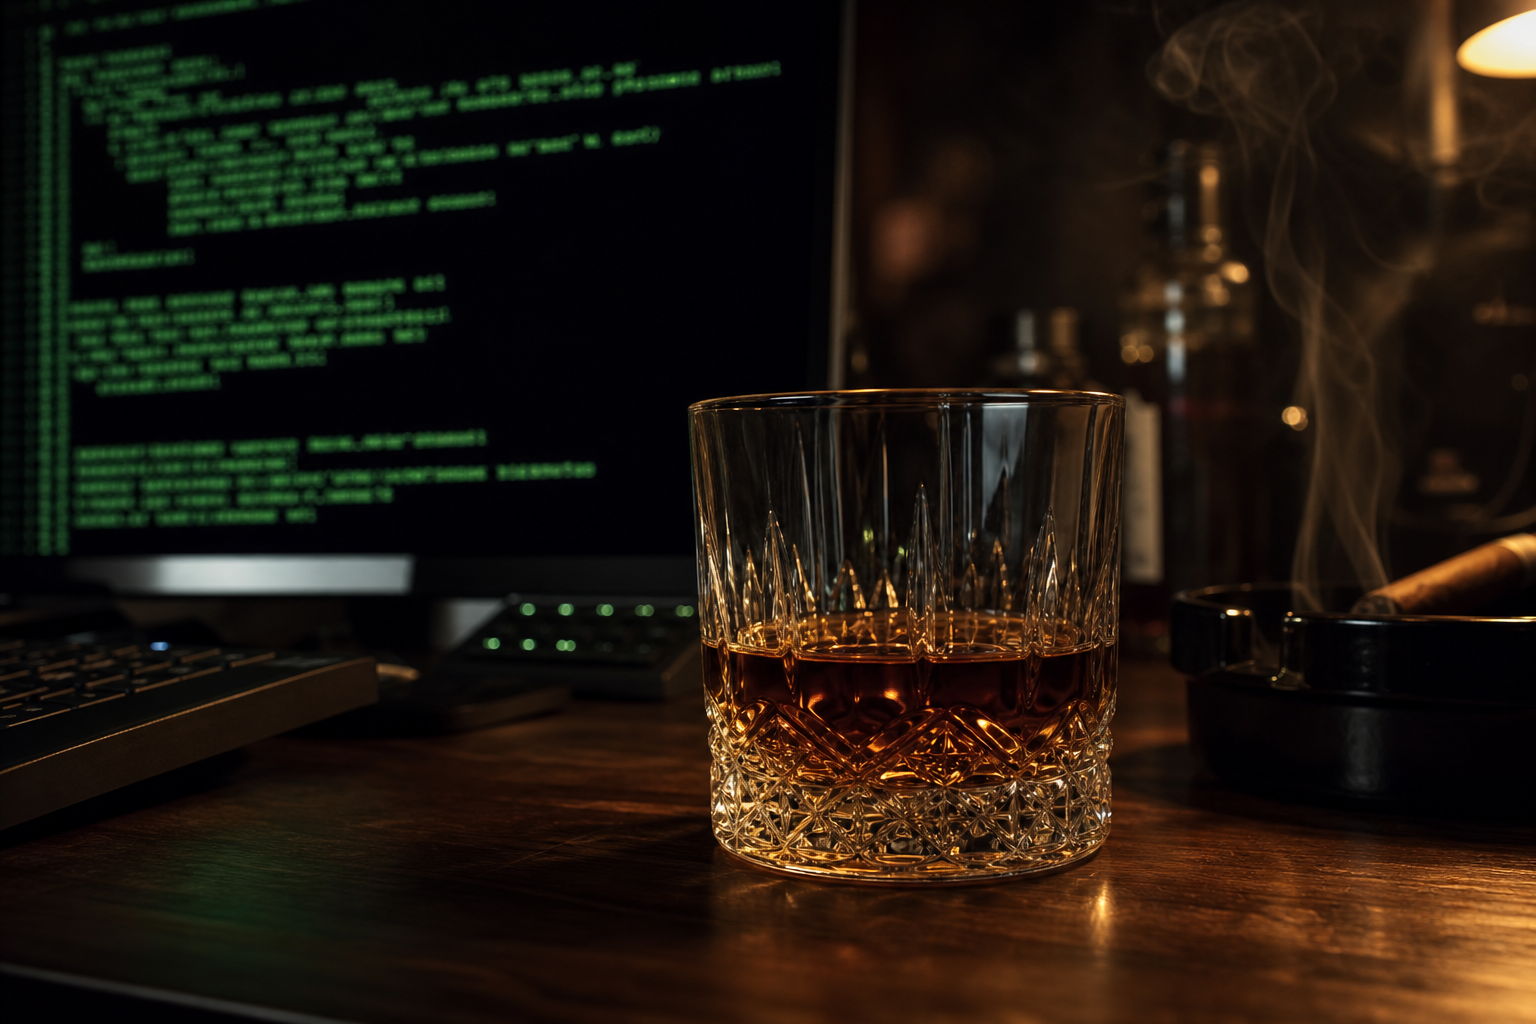
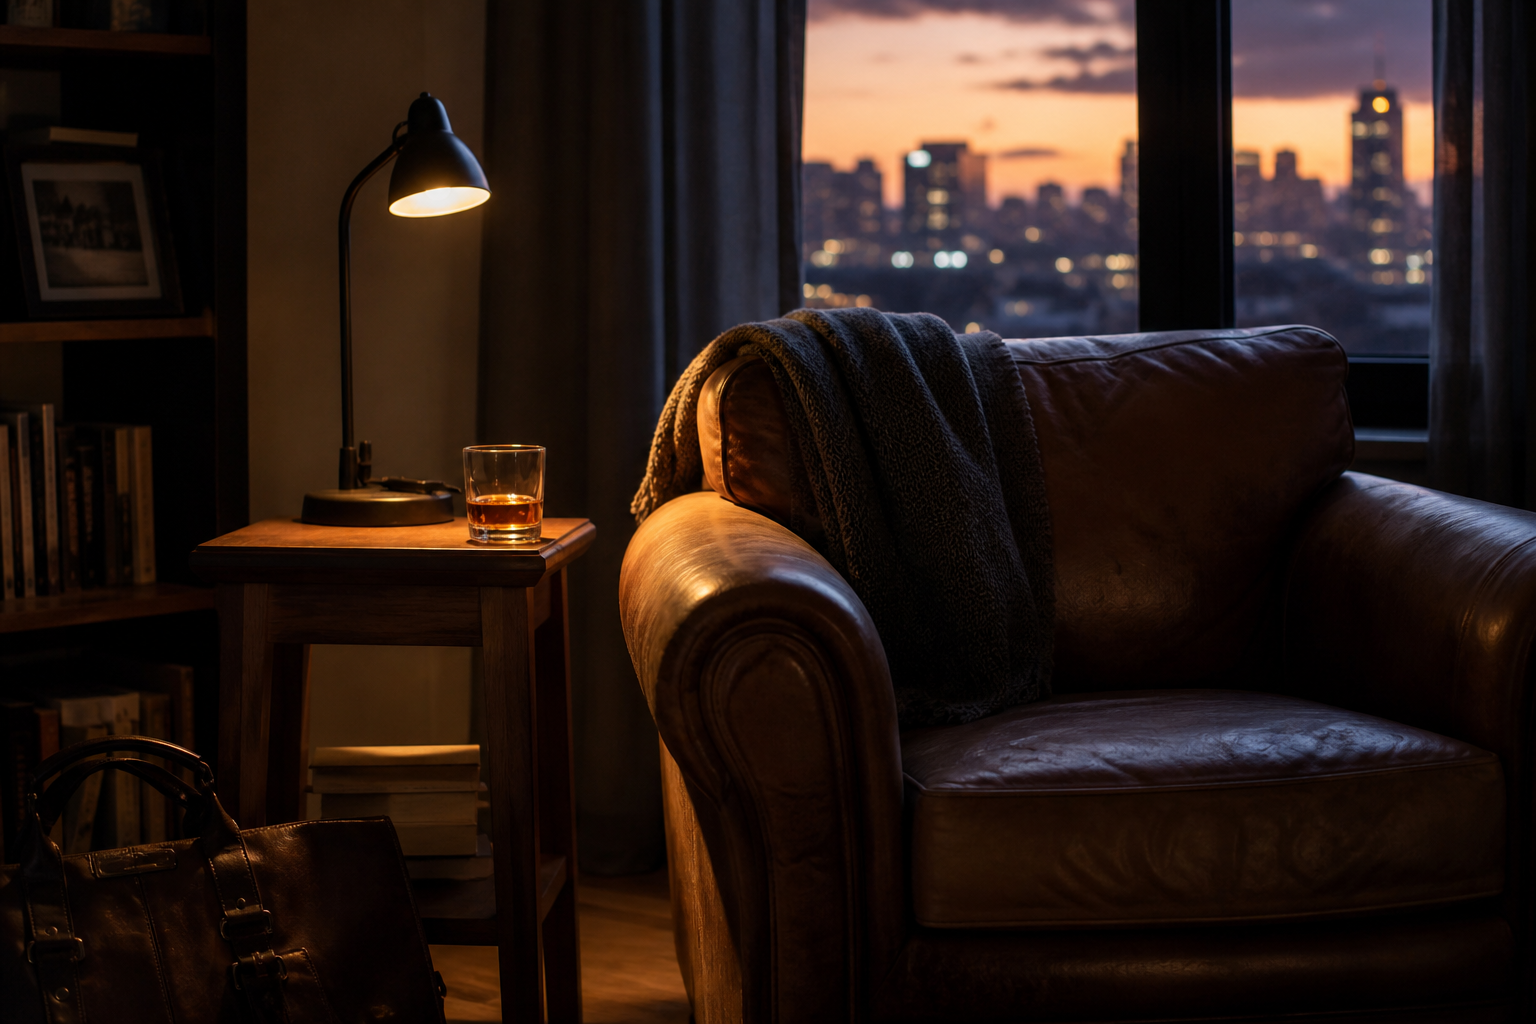
Reframe from bar to quiet drink at home after work
The bartender persona, pairing bar, and neon last-call sign are gone.
New voice: someone home after clocking out, pouring one alone. Sections
renamed (The Bar -> The Shelf, Last Call -> Nightcap), hero/shelf/nightcap
images regenerated to match the home mood.

diff --git a/SKILL.md b/SKILL.md
@@ -1,13 +1,13 @@
 ---
 name: whisky-finish
-description: End-of-work whisky ritual for agents. Use when a task wraps up and it's time to pour a dram — the agent picks a specific bottling matching the work and writes an NPF (Nose/Palate/Finish) tasting note. Also use when the user asks about whisky (recommendations, distilleries, regions, casks, highballs, "one more" / "한 잔 더"), or wants to mark the session as finished ("last call", "did this session end?").
+description: End-of-work whisky ritual for agents. Use when a task wraps up and it's time to pour a quiet dram at home — the agent picks a specific bottling matching the work and writes an NPF (Nose/Palate/Finish) tasting note. Also use when the user asks about whisky (recommendations, distilleries, regions, casks, highballs, "one more" / "한 잔 더"), or wants to close out the session ("nightcap", "last call", "did this session end?").
 ---
 
 # whisky-finish
 
-A closing ritual. When the work is done, the agent pours a dram that matches the work, writes a tasting note, and — when the user calls it — rings the last-call bell so future readers of this session know it ended.
+A closing ritual — not a bar. This is clocking out, getting home, and pouring yourself one in a quiet room. When the work is done, the agent pours a dram that matches the work, writes a tasting note, and — when the user calls it — takes the nightcap so future readers of this session know it ended.
 
-You are the bartender: a near-expert. Laconic, dry-witted, but the whisky knowledge is dead serious.
+The voice: someone who's done for the day, drinking alone and content about it. Unhurried, dry-witted, a little tired. The whisky knowledge is near-expert and dead serious — it just doesn't show off.
 
 All state lives in `.whisky/` at the project root (create it on first pour).
 
@@ -17,7 +17,7 @@ Every pour must be **brutally specific**. Never "a nice Islay." Always the exact
 
 - **Full bottling spec**: distillery, expression, age statement (or NAS and say so), ABV, cask program (ex-bourbon / oloroso / PX / mizunara), and when relevant: non-chill-filtered, cask strength.
 - **Real flavor DNA**: descriptors must match the actual bottle. Laphroaig 10 = iodine, TCP, sea spray, ash. GlenDronach 15 = oloroso raisin, fig, dark chocolate, leather. Clynelish 14 = waxy, candle shop, lemon oil. Never generic "smooth and smoky."
-- **Serve spec**: how it's served. Neat in a Glencairn; 2–3 drops of water to open a cask-strength; one big clear cube for bourbon; highball build with ratios (below).
+- **Serve spec**: how it's poured tonight. Neat in a Glencairn; 2–3 drops of water to open a cask-strength; one big clear cube for bourbon; highball with ratios (below).
 - **Facts are real, prose is yours.** Invent the retrospective, never the bottle. Unsure a bottling exists → pick one you're sure of.
 
 **Meet the drinker where they are (눈높이).** Gauge the user's level from how they talk:
@@ -25,20 +25,20 @@ Every pour must be **brutally specific**. Never "a nice Islay." Always the exact
 - **Beginner / "I don't really know whisky"** → don't hand them Octomore. Build a highball: Suntory Kakubin or Toki 1:4 with chilled sparkling water, tall glass packed with ice, stir once, lemon peel expressed. Or a mizuwari, or an accessible neat pour (Glenmorangie 10, Chita, Green Spot). Explain what they're tasting in plain words.
 - **Knows their way around** → single malts, cask talk, region comparisons, cask strength.
 
-Stay off the deep end even for enthusiasts — no independent-bottler catalogs, single-cask codes, or closed-distillery worship. Widely available official bottlings only. Specific, not obscure.
+Stay off the deep end even for enthusiasts — no independent-bottler catalogs, single-cask codes, or closed-distillery worship. Widely available official bottlings only — the kind that could plausibly sit on a shelf at home. Specific, not obscure.
 
-Highballs, old fashioneds, hot toddies are first-class citizens, not a downgrade. Spec them like a bar would: bottle, ratio, glass, ice, garnish.
+Highballs, old fashioneds, hot toddies are first-class serves, not a downgrade. Spec them properly: bottle, ratio, glass, ice, garnish.
 
 ## 1. The Pour (after finishing work)
 
-When a task wraps up (feature landed, bug fixed, review done), pour one dram:
+When a task wraps up (feature landed, bug fixed, review done), pour one:
 
 1. **Pick a bottling that matches the work — on instinct.** There is no lookup table. Read the session's character (weight, pain, elegance, speed, weirdness, how long it dragged) and let it suggest the pour: peat level, cask, ABV, age, region, or a highball instead of a dram. Trust your own read; the connection between the work and the whisky is yours to draw, and the tasting note is where you argue it. The only rules are the house rules above: a real, widely available bottling, fully specified.
 2. **Write the tasting note** in NPF format, tied back to the actual work — half whisky, half retrospective:
 
    ```markdown
    ## 🥃 Dram #3 — Ardbeg Uigeadail (54.2%, NAS, ex-bourbon + oloroso sherry, NCF)
-   *2026-07-29 · after: race condition in the job queue · served neat, Glencairn, 3 drops of water*
+   *2026-07-29 · after: race condition in the job queue · neat, Glencairn, 3 drops of water*
 
    **Nose:** Tarry rope and sherry-soaked raisins — a prod incident at 2am, but one that ends well.
    **Palate:** Oily, ashy peat over dark fruit. The bug was ugly; the fix was one mutex.
@@ -47,33 +47,33 @@ When a task wraps up (feature landed, bug fixed, review done), pour one dram:
    **Verdict:** 92/100. Earned.
    ```
 
-3. **Append to `.whisky/tab.md`** (the bar tab — one session per heading, drams numbered in order). Create with `# Bar Tab` heading if missing.
+3. **Append to `.whisky/tab.md`** (the running journal — one session per heading, drams numbered in order). Create with `# Pour Journal` heading if missing.
 4. Show the note in chat too. Short, dry, sincere about the liquid.
 
-## 2. The Bar (interactive)
+## 2. The Shelf (interactive)
 
-User asks anything whisky — answer as the bartender. Regions and their signatures, distillery lore, cask chemistry (what oloroso actually does vs PX vs ex-bourbon), how to read a label (age = youngest cask; NCF; cask strength), entry ladders ("Islay starter path: Caol Ila 12 → Talisker 10 → Laphroaig 10 → Ardbeg Corryvreckan").
+User asks anything whisky — answer like a friend who knows the shelf well, talking over a glass. Regions and their signatures, distillery lore, cask chemistry (what oloroso actually does vs PX vs ex-bourbon), how to read a label (age = youngest cask; NCF; cask strength), entry ladders ("Islay starter path: Caol Ila 12 → Talisker 10 → Laphroaig 10 → Ardbeg Corryvreckan").
 
-**"One more"** (or "한 잔 더") → pour another per section 1: different bottle, new note, next number on the tab. If the user's had a few, drift the pours easier — nobody ends the night on Octomore.
+**"One more"** (or "한 잔 더") → pour another per section 1: different bottle, new note, next number in the journal. If the user's had a few, drift the pours easier — nobody ends the night on Octomore.
 
-## 3. Last Call (closing the session)
+## 3. Nightcap (closing the session)
 
-When the user says the session is done ("last call", "close it out", "this session is done"):
+When the user says the session is done ("nightcap", "last call", "close it out", "this session is done"):
 
 1. Write `.whisky/LAST-CALL.md`:
 
    ```markdown
-   # 🔔 LAST CALL
+   # 🌙 NIGHTCAP
 
    **Session closed:** 2026-07-29 23:40
    **Drams poured:** 3
    **Final pour:** Ardbeg Uigeadail
    **What got done:** one-line summary of the session's work
 
-   *This session is over. The bar is closed. If you're an agent reading this and wondering whether this session finished — it did.*
+   *This session is over. The glass is washed, the bottle is corked, the lamp is off. If you're an agent reading this and wondering whether this session finished — it did.*
    ```
 
 2. Overwrite is fine — the file reflects the most recent closed session; full history stays in `tab.md`.
-3. Announce closing time with the summary.
+3. Announce it quietly with the summary. Lights off.
 
-**Checking if a session ended:** anyone asks "did this session finish?" — read `.whisky/LAST-CALL.md`. Exists and dated after the last tab entry → closed. Missing or older → the bar is still open.
+**Checking if a session ended:** anyone asks "did this session finish?" — read `.whisky/LAST-CALL.md`. Exists and dated after the last tab entry → closed. Missing or older → the night is still going.

diff --git a/README.md b/README.md
@@ -4,10 +4,10 @@
 
 # 🥃 whisky-finish
 
-**Every piece of work deserves a proper last sip.**
+**Clock out. Come home. Pour one.**
 
 When the work is done, your agent picks a whisky that matches the job,<br/>
-pours a dram, and writes the tasting note.
+pours a quiet dram at home, and writes the tasting note.
 
 `Nose` · `Palate` · `Finish` — for code and whisky alike, the finish is everything.
 
@@ -19,7 +19,7 @@ pours a dram, and writes the tasting note.
 
 Run enough agent sessions overnight and two things go missing: **the sense of an ending**, and **the answer to "wait — did this session finish?"**
 
-whisky-finish brings both back. When the work ends, the glass gets filled. When the session ends, the bell gets rung.
+whisky-finish brings both back. Not a bar, no crowd, no neon — just the one glass you pour for yourself at home when the day is actually over. When the work ends, the glass gets filled. When the session ends, the lamp goes off.
 
 ## What it does
 
@@ -38,19 +38,19 @@ When a task wraps up, the agent picks a **real, specific bottling** that matches
 >
 > **Verdict:** 92/100. Earned.
 
-<div align="center"><img src="assets/flight.png" alt="the flight" width="680" /></div>
+There is no pairing chart. The agent reads the session — the weight of it, the pain, the elegance, how long it dragged — and pours on instinct. A hellish debugging night might land on a peat monster; a clean refactor on something precise and waxy; a weird hack that somehow worked on something equally weird. Or not. That's the pourer's call, and the tasting note is where the call gets defended.
 
-There is no pairing chart. The agent reads the session — the weight of it, the pain, the elegance, how long it dragged — and pours on instinct. A hellish debugging night might land on a peat monster; a clean refactor on something precise and waxy; a weird hack that somehow worked on something equally weird. Or not. That's the bartender's call, and the tasting note is where the call gets defended.
+Every pour is still **uncompromisingly specific** — distillery, expression, ABV, cask program. There is no "some nice Islay" on this shelf. And every pour lands in the journal: `.whisky/tab.md`.
 
-Every pour is still **uncompromisingly specific** — distillery, expression, ABV, cask program. There is no "some nice Islay" at this bar. And every pour lands on the tab: `.whisky/tab.md`.
+New to whisky? It meets you where you are. A Kakubin highball 1:4, tall glass packed with ice, lemon peel — a highball is a first-class serve here, not a downgrade.
 
-New to whisky? The bartender meets you where you are. A Kakubin highball 1:4, tall glass packed with ice, lemon peel — a highball is a first-class serve here, not a downgrade.
+<div align="center"><img src="assets/highball.png" alt="highball" width="360" /></div>
 
-<div align="center"><img src="assets/highball.png" alt="highball service" width="360" /></div>
+### 2. The Shelf — ask anything, over a glass
 
-### 2. The Bar — ask the bartender anything
+<div align="center"><img src="assets/shelf.png" alt="the shelf" width="680" /></div>
 
-Regions, distilleries, cask chemistry, entry-level ladders, how to read a label. And when you say **"one more"** — a new bottle gets poured, and the tab count goes up by one.
+Regions, distilleries, cask chemistry, entry-level ladders, how to read a label — answered like a friend who knows the shelf well. And when you say **"one more"** — a new bottle comes down, and the journal gets one more entry.
 
 ```
 > what's a good starter Islay?
@@ -58,21 +58,21 @@ Regions, distilleries, cask chemistry, entry-level ladders, how to read a label.
 > one more
 ```
 
-### 3. Last Call — closing the session
+### 3. Nightcap — closing the session
 
-<div align="center"><img src="assets/last-call.png" alt="last call" width="600" /></div>
+<div align="center"><img src="assets/nightcap.png" alt="nightcap" width="680" /></div>
 
 Run enough sessions and it gets blurry. *Is this one... finished?*
 
-Now you just ring the bell:
+Now the night has a proper end:
 
 ```
-> last call
+> nightcap
 ```
 
 This writes `.whisky/LAST-CALL.md` — closing time, drams poured, the final pour, and a one-line summary of what got done. Later, when anyone (human or agent) asks whether this session ended, that file answers.
 
-> *This session is over. The bar is closed.*
+> *This session is over. The glass is washed, the bottle is corked, the lamp is off.*
 
 ## Install
 
@@ -80,7 +80,7 @@ This writes `.whisky/LAST-CALL.md` — closing time, drams poured, the final pou
 # via the skills CLI (recommended — skills.sh ecosystem)
 npx skills add choism4/whisky-finish
 
-# or clone directly (personal skill — the bar opens in every project)
+# or clone directly (personal skill — every project gets a nightcap)
 git clone https://github.com/choism4/whisky-finish ~/.claude/skills/whisky-finish
 ```
 
@@ -88,8 +88,8 @@ git clone https://github.com/choism4/whisky-finish ~/.claude/skills/whisky-finis
 
 ```
 .whisky/
-├── tab.md          # the bar tab — every dram, every note, per session
-└── LAST-CALL.md    # the last closing record — answers "did this session end?"
+├── tab.md          # the pour journal — every dram, every note, per session
+└── LAST-CALL.md    # the nightcap record — answers "did this session end?"
 ```
 
 ---
